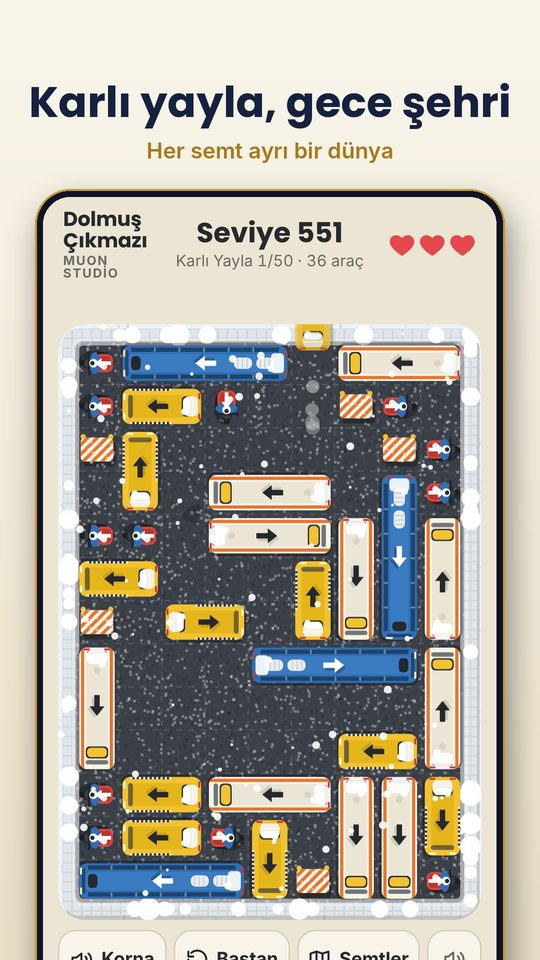
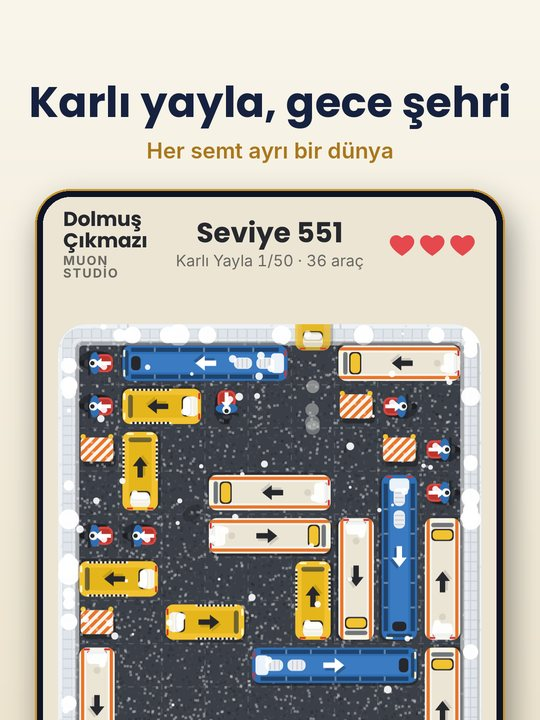
Stüdyo ana sayfası: tüm uygulamalar, Dolmuş Çıkmazı ekran görüntüleri

diff --git a/dolmus-cikmazi/index.html b/dolmus-cikmazi/index.html
@@ -40,9 +40,9 @@
            text-decoration: none; font-weight: 800; color: #0A1124;
            background: linear-gradient(180deg, var(--gold), var(--gold2)); box-shadow: 0 6px 18px rgba(200,150,47,.3); }
   .store.soon { background: transparent; color: var(--gold); border: 1.5px solid var(--line); box-shadow: none; }
-  .phone { justify-self: center; width: min(300px, 80vw); border-radius: 36px; border: 3px solid var(--gold2);
+  .phone { justify-self: center; width: min(320px, 80vw); border-radius: 28px; border: 3px solid var(--gold2);
            overflow: hidden; box-shadow: 0 24px 60px rgba(0,0,0,.55); }
-  .phone img { display: block; width: 100%; }
+  .phone img { display: block; width: 100%; height: auto; max-height: 62vh; object-fit: cover; object-position: top; }
   section { padding: 40px 0; border-top: 1px solid var(--line); }
   h2 { font-size: 1.6rem; margin: 0 0 18px; color: var(--gold); }
   .grid { display: grid; grid-template-columns: repeat(3, 1fr); gap: 16px; }
@@ -50,7 +50,8 @@
   .card b { display: block; margin-bottom: 4px; }
   .card p { margin: 0; color: var(--muted); }
   .shots { display: flex; gap: 14px; overflow-x: auto; padding-bottom: 10px; scroll-snap-type: x mandatory; }
-  .shots img { width: 200px; flex: none; border-radius: 18px; border: 1px solid var(--line); scroll-snap-align: start; }
+  .shots img { width: 168px; height: auto; flex: none; border-radius: 16px; border: 1px solid var(--line); scroll-snap-align: start; }
+  @media (min-width: 900px) { .shots { display: grid; grid-template-columns: repeat(6, 1fr); overflow: visible; } .shots img { width: 100%; } }
   footer { padding: 32px 0 48px; color: var(--muted); font-size: 14px; border-top: 1px solid var(--line); }
   footer a { margin-right: 16px; }
   [data-l="en"] { display: none; }
@@ -81,7 +82,7 @@
         <a class="store soon" href="#" aria-disabled="true"><span data-l="tr">Google Play · Yakında</span><span data-l="en">Google Play · Coming soon</span></a>
       </div>
     </div>
-    <div class="phone"><img src="tr_1.jpg" alt="Oyundan bir sokak" width="540" height="960"></div>
+    <div class="phone"><img src="tr_1.jpg" alt="Oyundan bir sokak" width="540" height="720"></div>
   </div>
 
   <section>
@@ -102,12 +103,12 @@
   <section>
     <h2 data-l="tr">Ekran görüntüleri</h2><h2 data-l="en">Screenshots</h2>
     <div class="shots">
-      <img src="tr_1.jpg" alt="" width="540" height="960" loading="lazy">
-      <img src="tr_2.jpg" alt="" width="540" height="960" loading="lazy">
-      <img src="tr_3.jpg" alt="" width="540" height="960" loading="lazy">
-      <img src="tr_4.jpg" alt="" width="540" height="960" loading="lazy">
-      <img src="tr_5.jpg" alt="" width="540" height="960" loading="lazy">
-      <img src="tr_6.jpg" alt="" width="540" height="960" loading="lazy">
+      <img src="tr_1.jpg" alt="" width="540" height="720" loading="lazy">
+      <img src="tr_2.jpg" alt="" width="540" height="720" loading="lazy">
+      <img src="tr_3.jpg" alt="" width="540" height="720" loading="lazy">
+      <img src="tr_4.jpg" alt="" width="540" height="720" loading="lazy">
+      <img src="tr_5.jpg" alt="" width="540" height="720" loading="lazy">
+      <img src="tr_6.jpg" alt="" width="540" height="720" loading="lazy">
     </div>
   </section>
 
